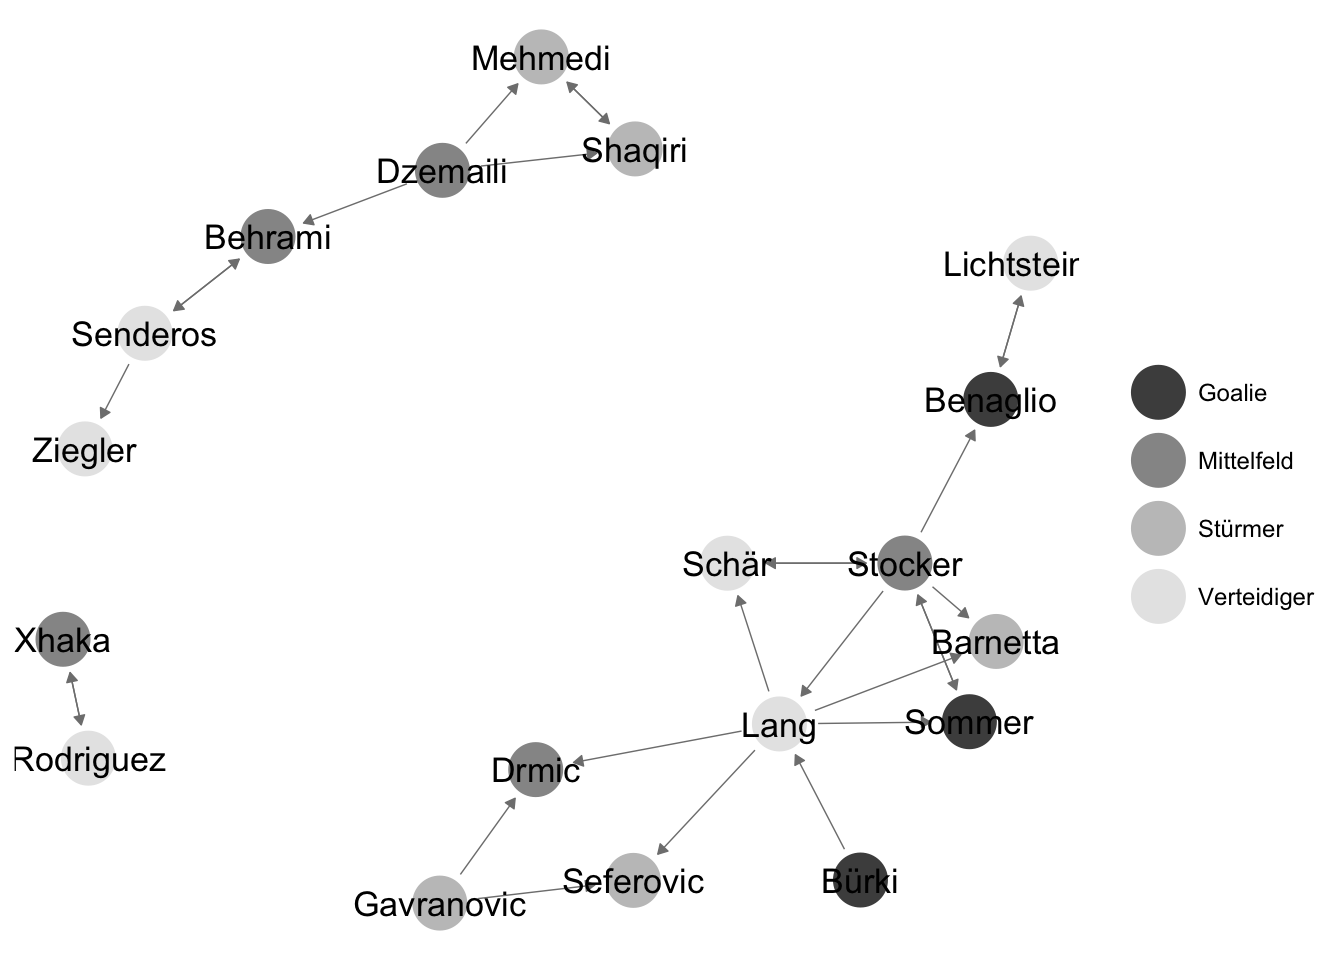
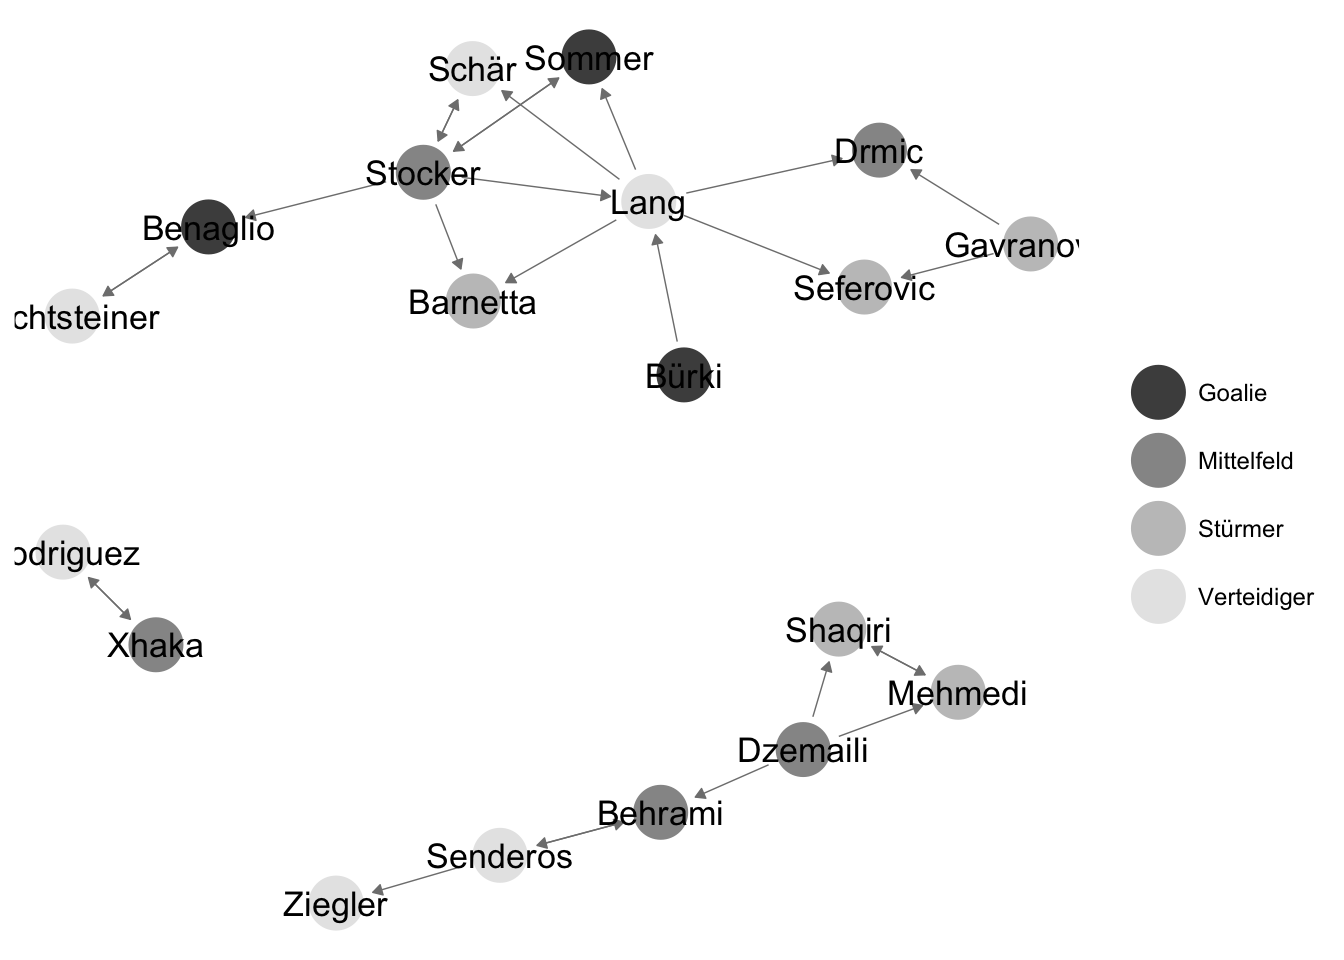
Updated chapter 2: network data.

diff --git a/docs/nwdata.html b/docs/nwdata.html
@@ -121,16 +121,16 @@ code > span.in { color: #60a0b0; font-weight: bold; font-style: italic; } /* Inf
 <li class="chapter" data-level="3" data-path="nwdata.html"><a href="nwdata.html"><i class="fa fa-check"></i><b>3</b> Network data: how to store and use network data</a><ul>
 <li class="chapter" data-level="3.1" data-path="nwdata.html"><a href="nwdata.html#different-formats-to-store-network-data"><i class="fa fa-check"></i><b>3.1</b> Different formats to store network data</a></li>
 <li class="chapter" data-level="3.2" data-path="nwdata.html"><a href="nwdata.html#dealing-with-network-data-in-r"><i class="fa fa-check"></i><b>3.2</b> Dealing with network data in R</a><ul>
-<li class="chapter" data-level="3.2.1" data-path="nwdata.html"><a href="nwdata.html#storing-network-data-using-edge-lists"><i class="fa fa-check"></i><b>3.2.1</b> Storing network data using edge lists</a></li>
+<li class="chapter" data-level="3.2.1" data-path="nwdata.html"><a href="nwdata.html#reading-in-data-stored-in-an-edge-list"><i class="fa fa-check"></i><b>3.2.1</b> Reading in data stored in an edge list</a></li>
 <li class="chapter" data-level="3.2.2" data-path="nwdata.html"><a href="nwdata.html#converting-an-edge-list-to-adjacency-matrix"><i class="fa fa-check"></i><b>3.2.2</b> Converting an edge list to adjacency matrix</a></li>
-<li class="chapter" data-level="3.2.3" data-path="nwdata.html"><a href="nwdata.html#converting-an-adjacency-list-to-adjacency"><i class="fa fa-check"></i><b>3.2.3</b> Converting an adjacency list to adjacency</a></li>
-<li class="chapter" data-level="3.2.4" data-path="nwdata.html"><a href="nwdata.html#storing-nodal-attributes-the-right-way"><i class="fa fa-check"></i><b>3.2.4</b> Storing nodal attributes the right way</a></li>
-<li class="chapter" data-level="3.2.5" data-path="nwdata.html"><a href="nwdata.html#the-network-object-from-the-statnet-package"><i class="fa fa-check"></i><b>3.2.5</b> The network object from the <code>statnet</code>-package</a></li>
+<li class="chapter" data-level="3.2.3" data-path="nwdata.html"><a href="nwdata.html#storing-nodal-attributes-the-right-way"><i class="fa fa-check"></i><b>3.2.3</b> Storing nodal attributes the right way</a></li>
+<li class="chapter" data-level="3.2.4" data-path="nwdata.html"><a href="nwdata.html#the-network-object-from-the-statnet-package"><i class="fa fa-check"></i><b>3.2.4</b> The network object from the <code>statnet</code>-package</a></li>
 </ul></li>
 <li class="chapter" data-level="3.3" data-path="nwdata.html"><a href="nwdata.html#different-network-types-one-mode-and-two-mode-networks"><i class="fa fa-check"></i><b>3.3</b> Different Network types: one-mode and two-mode networks</a></li>
 <li class="chapter" data-level="3.4" data-path="nwdata.html"><a href="nwdata.html#network-visualization"><i class="fa fa-check"></i><b>3.4</b> Network visualization</a><ul>
 <li class="chapter" data-level="3.4.1" data-path="nwdata.html"><a href="nwdata.html#a-word-of-warning"><i class="fa fa-check"></i><b>3.4.1</b> A word of warning</a></li>
 <li class="chapter" data-level="3.4.2" data-path="nwdata.html"><a href="nwdata.html#resources-for-visualization"><i class="fa fa-check"></i><b>3.4.2</b> Resources for visualization</a></li>
+<li class="chapter" data-level="3.4.3" data-path="nwdata.html"><a href="nwdata.html#a-brief-overview-over-ggnet2"><i class="fa fa-check"></i><b>3.4.3</b> A brief overview over ggnet2()</a></li>
 </ul></li>
 </ul></li>
 <li class="chapter" data-level="4" data-path="a-step-by-step-guide-to-computing-centrality-measures-in-statnet.html"><a href="a-step-by-step-guide-to-computing-centrality-measures-in-statnet.html"><i class="fa fa-check"></i><b>4</b> A step by step guide to computing centrality measures in statnet</a><ul>
@@ -269,8 +269,11 @@ Figure 3.1: Friendship relations between members of the Swiss national soccer te
 </div>
 <div id="dealing-with-network-data-in-r" class="section level2">
 <h2><span class="header-section-number">3.2</span> Dealing with network data in R</h2>
-<div id="storing-network-data-using-edge-lists" class="section level3">
-<h3><span class="header-section-number">3.2.1</span> Storing network data using edge lists</h3>
+<div id="reading-in-data-stored-in-an-edge-list" class="section level3">
+<h3><span class="header-section-number">3.2.1</span> Reading in data stored in an edge list</h3>
+<p>Since edge lists (or adjacency lists) are the most efficient way of storing your data, we urge you to compile your network data in excel/txt-file using the sender-target columns for individual network ties.</p>
+<p>Reading in your data:</p>
+<div class="sourceCode"><pre class="sourceCode r"><code class="sourceCode r">myel &lt;-<span class="st"> </span><span class="kw">read.table</span>(<span class="dt">file =</span> <span class="st">&quot;myedgelist.csv&quot;</span>, <span class="dt">sep =</span> <span class="st">&quot;;&quot;</span>, <span class="dt">header =</span> <span class="ot">TRUE</span>)</code></pre></div>
 <div class="rmdtask">
 <p>
 Read in the network data of the Swiss national socer team.
@@ -279,21 +282,74 @@ Read in the network data of the Swiss national socer team.
 </div>
 <div id="converting-an-edge-list-to-adjacency-matrix" class="section level3">
 <h3><span class="header-section-number">3.2.2</span> Converting an edge list to adjacency matrix</h3>
-</div>
-<div id="converting-an-adjacency-list-to-adjacency" class="section level3">
-<h3><span class="header-section-number">3.2.3</span> Converting an adjacency list to adjacency</h3>
+<p>Next you’ll need to determine how many unique nodes you have in your network:</p>
+<div class="sourceCode"><pre class="sourceCode r"><code class="sourceCode r">mynodes &lt;-<span class="st"> </span><span class="kw">unique</span>(<span class="kw">c</span>(myel<span class="op">$</span>sender, myel<span class="op">$</span>target))</code></pre></div>
+<p>Once you have specified a vector with all the unique names of the nodes in your network, you can create an empty matrix (empty = filled with zeros) and label the columns and rows accordingly:</p>
+<div class="sourceCode"><pre class="sourceCode r"><code class="sourceCode r">mat &lt;-<span class="st"> </span><span class="kw">matrix</span>(<span class="dv">0</span>, <span class="dt">nrow =</span> <span class="kw">length</span>(mynodes), <span class="dt">ncol =</span> <span class="kw">length</span>(mynodes))
+<span class="kw">colnames</span>(mat) &lt;-<span class="st"> </span>mynodes
+<span class="kw">rownames</span>(mat) &lt;-<span class="st"> </span>mynodes</code></pre></div>
+<p>Next you can fill your empty matrix with the ties reported in your egelist:</p>
+<div class="sourceCode"><pre class="sourceCode r"><code class="sourceCode r">mat[<span class="kw">cbind</span>(myel<span class="op">$</span>sender, myel<span class="op">$</span>target)] &lt;-<span class="st"> </span><span class="dv">1</span></code></pre></div>
 </div>
 <div id="storing-nodal-attributes-the-right-way" class="section level3">
-<h3><span class="header-section-number">3.2.4</span> Storing nodal attributes the right way</h3>
+<h3><span class="header-section-number">3.2.3</span> Storing nodal attributes the right way</h3>
+<p>Once you have prepared your adjacency list, you can create your nodal attribute data frame.</p>
+<div class="rmdwrong">
+<p>
+Never use an attribute data frame without having made sure that the rownames of your adjacency matrix match the rows in your attribute file!
+</p>
+</div>
+<p>You can either create a new data frame that contains a variable with the unique nodes, or you can sort a given attribute file so that the rows reflect the same people in the attribute file as well as in the adjacency matrix.</p>
+<div class="sourceCode"><pre class="sourceCode r"><code class="sourceCode r">dt &lt;-<span class="st"> </span><span class="kw">read.table</span>(<span class="dt">file =</span> <span class="st">&quot;attributes.csv&quot;</span>, <span class="dt">sep =</span> <span class="st">&quot;;&quot;</span>, <span class="dt">header =</span> <span class="ot">TRUE</span>)</code></pre></div>
+<p>Let’s assume your data frame contains a variable <code>nodeID</code> with all unique node names. Then you can check if your attribute file matches the adjacency matrix:</p>
+<div class="sourceCode"><pre class="sourceCode r"><code class="sourceCode r"><span class="kw">identical</span>(att<span class="op">$</span>nodeID, <span class="kw">rownames</span>(mat))</code></pre></div>
+<p>If they match, you can proceed. If they don’t match, you’ll have to sort your data:</p>
+<div class="sourceCode"><pre class="sourceCode r"><code class="sourceCode r">att &lt;-<span class="st"> </span>att[att<span class="op">$</span>nodeID <span class="op">%in%</span><span class="st"> </span>mynodes,]
+## or: 
+att &lt;-<span class="st"> </span>att[att<span class="op">$</span>nodeID <span class="op">%in%</span><span class="st"> </span><span class="kw">rownames</span>(mat),]
+## or: 
+att &lt;-<span class="st"> </span>att[<span class="kw">match</span>(att<span class="op">$</span>nodeID, mynodes),]
+## or: 
+att &lt;-<span class="st"> </span>att[<span class="kw">match</span>(att<span class="op">$</span>nodeID, <span class="kw">rownames</span>(mat)),]</code></pre></div>
+<p>or create a new data frame:</p>
+<div class="sourceCode"><pre class="sourceCode r"><code class="sourceCode r">att &lt;-<span class="st"> </span><span class="kw">data.frame</span>(<span class="dt">nodeID =</span> <span class="kw">rownames</span>(mat))</code></pre></div>
+<p>and then match variables from your original attributes file to your new attribute file:</p>
+<div class="sourceCode"><pre class="sourceCode r"><code class="sourceCode r">att<span class="op">$</span>newVariable &lt;-<span class="st"> </span>dt<span class="op">$</span>variable[<span class="kw">match</span>(att<span class="op">$</span>nodeID, dt<span class="op">$</span>nodeID)]</code></pre></div>
 </div>
 <div id="the-network-object-from-the-statnet-package" class="section level3">
-<h3><span class="header-section-number">3.2.5</span> The network object from the <code>statnet</code>-package</h3>
+<h3><span class="header-section-number">3.2.4</span> The network object from the <code>statnet</code>-package</h3>
+<p>The <code>statnet</code>-package mainly works with a <code>network</code>-object. This means that once you have prepared your adjacency matrix (here named <code>mat</code>) and your attributes file (here named <code>att</code>) you have to create a nework object with which you can then work with.</p>
+<div class="sourceCode"><pre class="sourceCode r"><code class="sourceCode r">nw &lt;-<span class="st"> </span><span class="kw">network</span>(mat, <span class="dt">directed =</span> <span class="ot">TRUE</span>)</code></pre></div>
+<p>The <code>network()</code>-command takes various options. If you have a directed network, specify <code>directed = TRUE</code>, otherwise <code>directed = FALSE</code>.</p>
+<p>The network object stores all your information on the network: the number of nodes, the number of edges, whether it’s a one-mode or two-mode network, whether it’s directed or not, etc.</p>
+<p>For the Swiss national soccer team friendship network, the object looks like this:</p>
+<pre><code>##  Network attributes:
+##   vertices = 19 
+##   directed = TRUE 
+##   hyper = FALSE 
+##   loops = FALSE 
+##   multiple = FALSE 
+##   bipartite = FALSE 
+##   total edges= 27 
+##     missing edges= 0 
+##     non-missing edges= 27 
+## 
+##  Vertex attribute names: 
+##     vertex.names 
+## 
+## No edge attributes</code></pre>
+<p>You can see that the network contains 19 nodes (or vertices) and 27 edges (i.e., friendship ties).</p>
+<p>It can also store your network attributes that you have saved in the <code>att</code>-data frame until now:</p>
+<div class="sourceCode"><pre class="sourceCode r"><code class="sourceCode r"><span class="kw">set.vertex.attribute</span>(nw, <span class="st">&#39;gender&#39;</span>, att<span class="op">$</span>gender)
+## or: 
+nw <span class="op">%v%</span><span class="st"> &#39;gender&#39;</span> =<span class="st"> </span>att<span class="op">$</span>gender</code></pre></div>
+<p>Now the variable <code>att$gender</code> is stored in the network <code>nw</code> and is labeled <code>gender</code>. You can give it whichever label you’d like, but make sure there are no spaces in between (this may cause errors later on).</p>
 </div>
 </div>
 <div id="different-network-types-one-mode-and-two-mode-networks" class="section level2">
 <h2><span class="header-section-number">3.3</span> Different Network types: one-mode and two-mode networks</h2>
 <p>Two-mode networks consist of two disjoint sets of nodes (modes) with relations only possible between modes. For example, a two-mode network could illustrate associations between Swiss national soccer players and the clubs they played in between 2012 and 2014.</p>
-<p><img src="mainimages/unnamed-chunk-9-1.png" width="672" /></p>
+<p><img src="mainimages/unnamed-chunk-22-1.png" width="672" /></p>
 <p>A matrix storing ties for a two-mode network is rectangular and commonly referred to as an incidence or occurence matrix.</p>
 <pre><code>##            FC Zürich GC FC Schaffhausen 1. FSV Mainz 05 FC St. Gallen
 ## Gavranovic         1  0               0               1             0
@@ -331,9 +387,7 @@ one_mode_projection[<span class="dv">1</span><span class="op">:</span><span clas
 ## Benaglio         0            0
 ## Xhaka            0            0
 ## Lichtsteiner     0            0</code></pre>
-<div class="sourceCode"><pre class="sourceCode r"><code class="sourceCode r"><span class="kw">ggnet2</span>(<span class="kw">network</span>(one_mode_projection),
-       <span class="dt">label =</span> <span class="ot">TRUE</span>)</code></pre></div>
-<p><img src="mainimages/unnamed-chunk-12-1.png" width="672" /></p>
+<p><img src="mainimages/unnamed-chunk-25-1.png" width="672" /></p>
 </div>
 <div id="network-visualization" class="section level2">
 <h2><span class="header-section-number">3.4</span> Network visualization</h2>
@@ -345,6 +399,28 @@ one_mode_projection[<span class="dv">1</span><span class="op">:</span><span clas
 <h3><span class="header-section-number">3.4.2</span> Resources for visualization</h3>
 <p>For pretty graphs in R, ggnet2 is hard to beat. <a href="https://briatte.github.io/ggnet/" class="uri">https://briatte.github.io/ggnet/</a></p>
 <p>For more advanced (and even prettier) visualizations, Gephi is a dedicated open source project (although somewhat buggy). <a href="https://gephi.org/" class="uri">https://gephi.org/</a></p>
+<p>A third, java-based visualization tool is Visone. It is hard to beat when you want to look at different clusters in your network (but contains almost all other network visualization tools as well). <a href="https://visone.info" class="uri">https://visone.info</a></p>
+</div>
+<div id="a-brief-overview-over-ggnet2" class="section level3">
+<h3><span class="header-section-number">3.4.3</span> A brief overview over ggnet2()</h3>
+<p>The command <code>ggnet2()</code> can work with either the adjacency matrix and the attributes-data frame or with the network object.</p>
+<div class="sourceCode"><pre class="sourceCode r"><code class="sourceCode r"><span class="kw">ggnet2</span>(friends_adjmat,
+       <span class="dt">label =</span> <span class="ot">TRUE</span>,                     <span class="co"># should nodes be labeled?</span>
+       <span class="dt">arrow.size =</span> <span class="dv">4</span>, <span class="dt">arrow.gap =</span> <span class="fl">0.04</span>, <span class="co"># set arrowheads</span>
+       <span class="dt">node.color =</span> att<span class="op">$</span>Position,        <span class="co"># specify node colors</span>
+       <span class="dt">palette =</span> <span class="st">&#39;Spectral&#39;</span>)             <span class="co"># use a pretty color-palette</span></code></pre></div>
+<p><img src="mainimages/unnamed-chunk-26-1.png" width="672" /></p>
+<p>Since all <code>ggnet()</code>-plots are <code>ggplots</code> you can add theme options that you usually use in ggplots:</p>
+<div class="sourceCode"><pre class="sourceCode r"><code class="sourceCode r"><span class="kw">ggnet2</span>(friends_adjmat,
+       <span class="dt">label =</span> <span class="ot">TRUE</span>,                     
+       <span class="dt">arrow.size =</span> <span class="dv">4</span>, <span class="dt">arrow.gap =</span> <span class="fl">0.04</span>, 
+       <span class="dt">node.color =</span> att<span class="op">$</span>Position,        
+       <span class="dt">palette =</span> <span class="st">&#39;Spectral&#39;</span>) <span class="op">+</span><span class="st">   </span>
+<span class="st">  </span><span class="kw">theme</span>(<span class="dt">legend.position =</span> <span class="st">&#39;bottom&#39;</span>) <span class="op">+</span>
+<span class="st">  </span><span class="kw">ggtitle</span>(<span class="st">&quot;Friendship network of the Swiss national soccer team&quot;</span>)</code></pre></div>
+<p><img src="mainimages/unnamed-chunk-27-1.png" width="672" /></p>
+<p>Plus you can save the plots using <code>ggsave()</code>:</p>
+<div class="sourceCode"><pre class="sourceCode r"><code class="sourceCode r"><span class="kw">ggsave</span>(<span class="dt">file =</span> <span class="st">&#39;figures/nw_soccerCH.pdf&#39;</span>, <span class="dt">width =</span> <span class="dv">15</span>, <span class="dt">height =</span> <span class="dv">12</span>, <span class="dt">units =</span> <span class="st">&#39;cm&#39;</span>)</code></pre></div>
 
 </div>
 </div>
